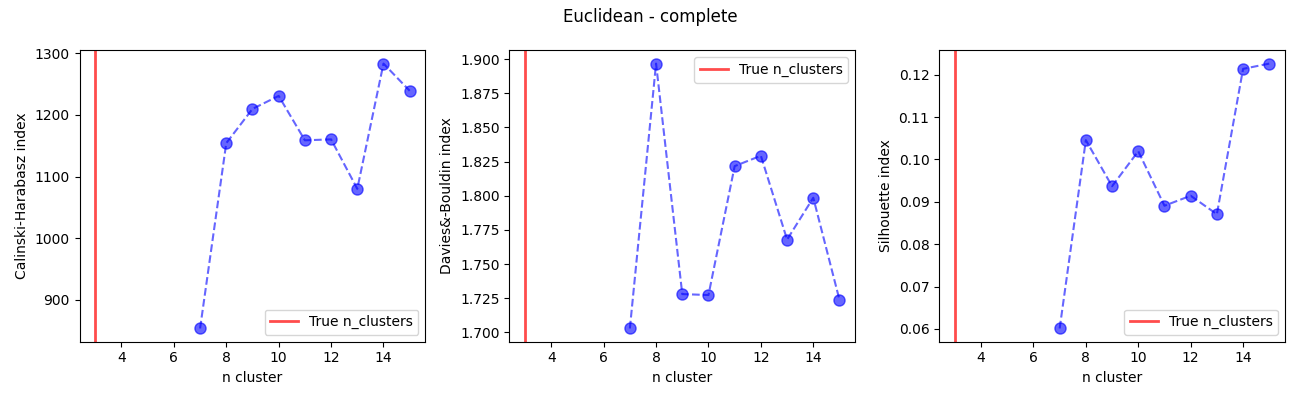
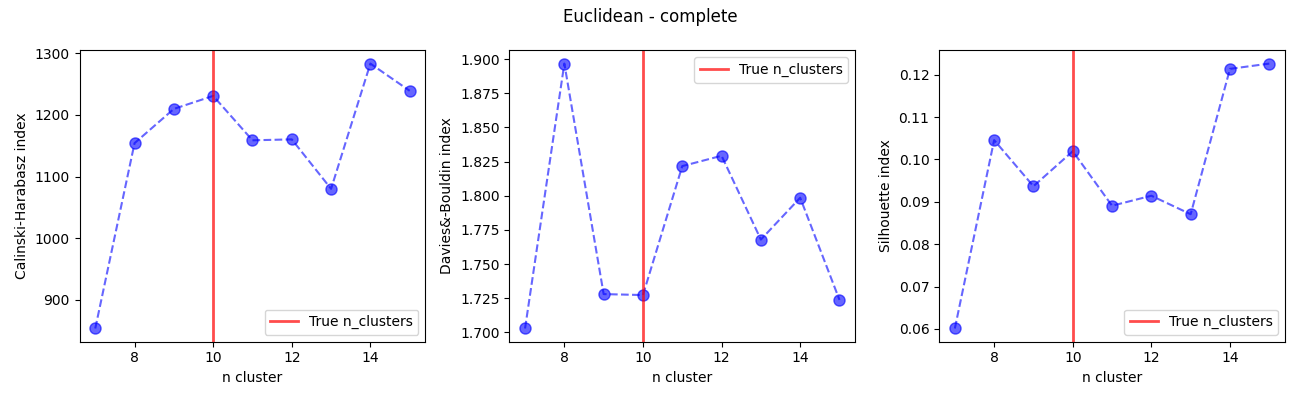
add class_real in agglo_figures.py

diff --git a/clustering/analysis/agglomerative_figures.py b/clustering/analysis/agglomerative_figures.py
@@ -7,9 +7,9 @@ from clustering.visualization import visualize
 PATH_REPORT_FIGURES = ROOT_PATH / 'reports/figures'
 
 
-def main(dataset_name: str):
+def main(dataset_name: str,
+         n_real_class: int):
     raw_name = dataset_name.split('.')[0]
-    n_classes = definitions.n_iris_real
     df = pd.read_csv(PROCESSED_DATA_PATH / f'agglo_results_{dataset_name}',
                      index_col=0)
 
@@ -24,7 +24,7 @@ def main(dataset_name: str):
                          & (df['linkage'] == case[1])]
 
             # Internal index
-            fig1 = visualize.plot_internal_index(case_df, n_classes, title)
+            fig1 = visualize.plot_internal_index(case_df, n_real_class, title)
             fig1.savefig(PATH_REPORT_FIGURES /
                          f'{raw_name}_{case[0]}_{case[1]}_internal.png')
 
@@ -41,4 +41,10 @@ if __name__ == '__main__':
                     'cmc.csv',
                     'pen-based.csv']
 
-    [main(name) for name in DATASET_NAME]
+    CLASS_REAL = [definitions.n_iris_real,
+                  definitions.n_vowel_real,
+                  definitions.n_cmc_real,
+                  definitions.n_pen_real]
+
+    [main(name, n_real_class)
+     for name, n_real_class in zip(DATASET_NAME, CLASS_REAL)]
